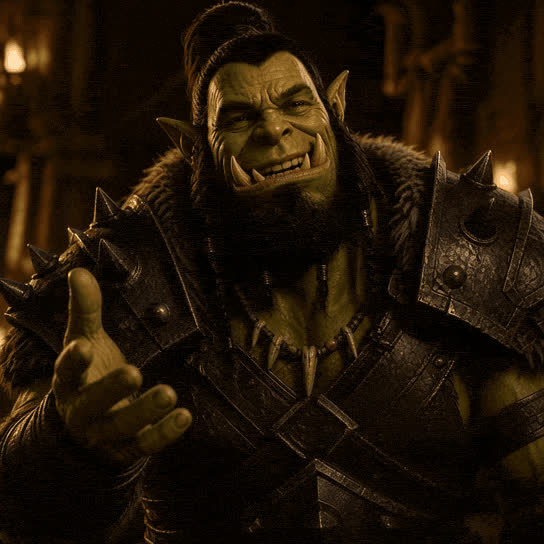
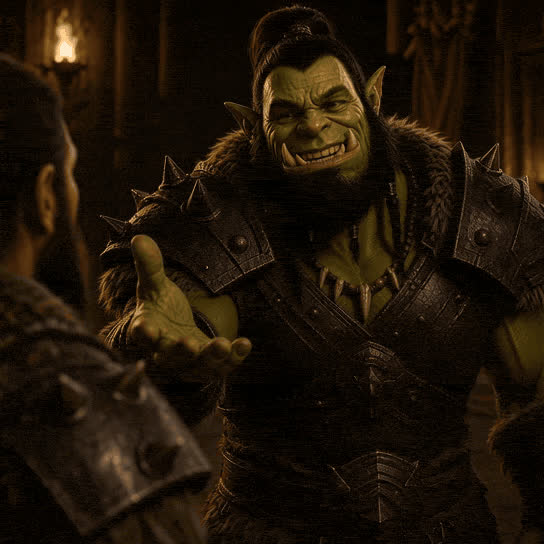
Reshoot Congratulations so the orc congratulates someone else.
He looks at another warrior and sets a hand on their shoulder.

diff --git a/scripts/imagine-video.ts b/scripts/imagine-video.ts
@@ -41,7 +41,7 @@ const PROMPTS: Record<string, string> = {
   clap:
     "The orc claps his hands in applause, a warm approving grin holding, a few more claps. Locked camera.",
   congratulations:
-    "The orc extends his open hand a little closer toward the camera, offering congratulations, then gives a proud little nod. His smile grows warmer. He does not clap. No talking. Locked camera.",
+    "The orc looks at the other warrior and sets his open hand on their shoulder in a warm congratulations. His proud smile grows, clearly congratulating them. He does not turn to the camera. He does not clap. No talking. Locked camera.",
   cooked:
     "The orc slowly stirs the pot, steam rising. He looks exhausted and done, a tired blink, the word COOKED staying readable. Natural character motion, locked camera.",
   curious:
